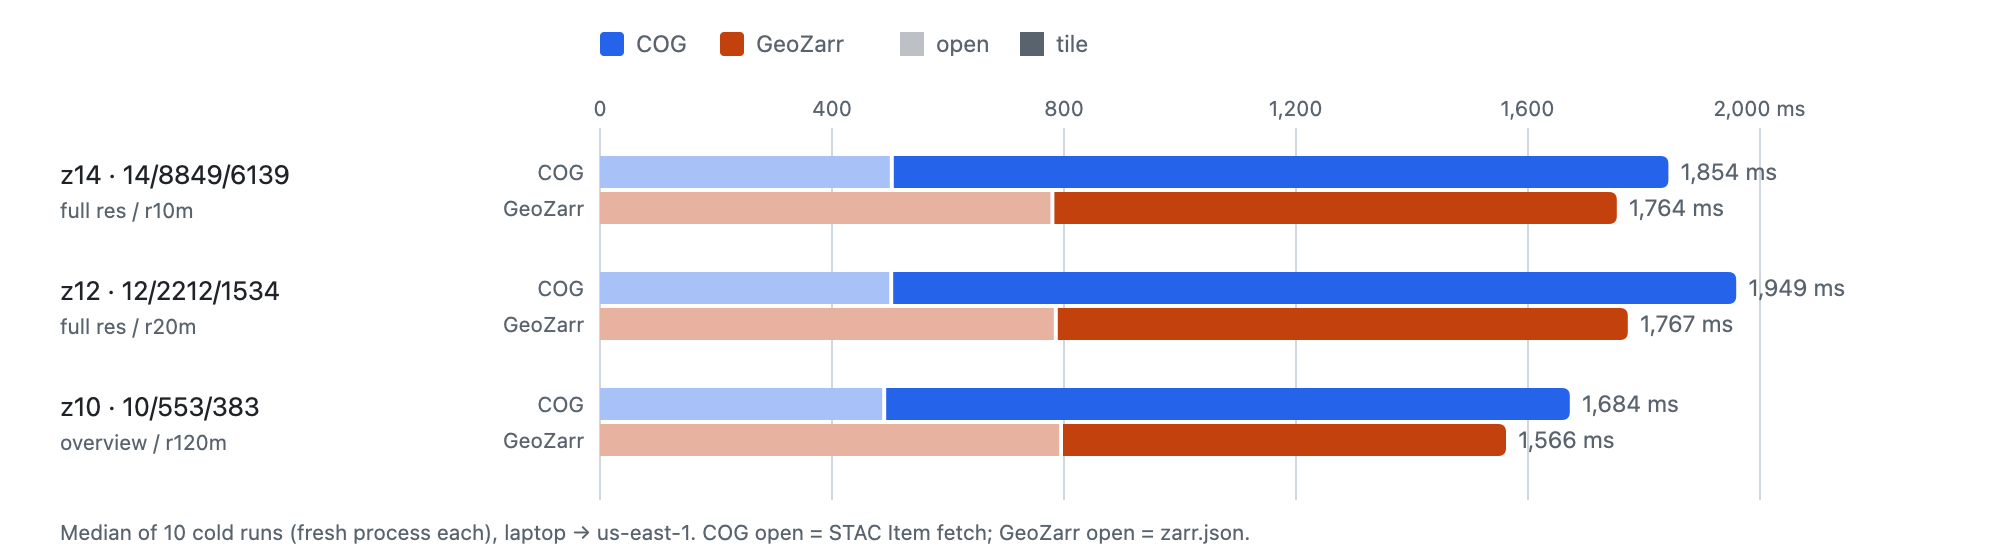
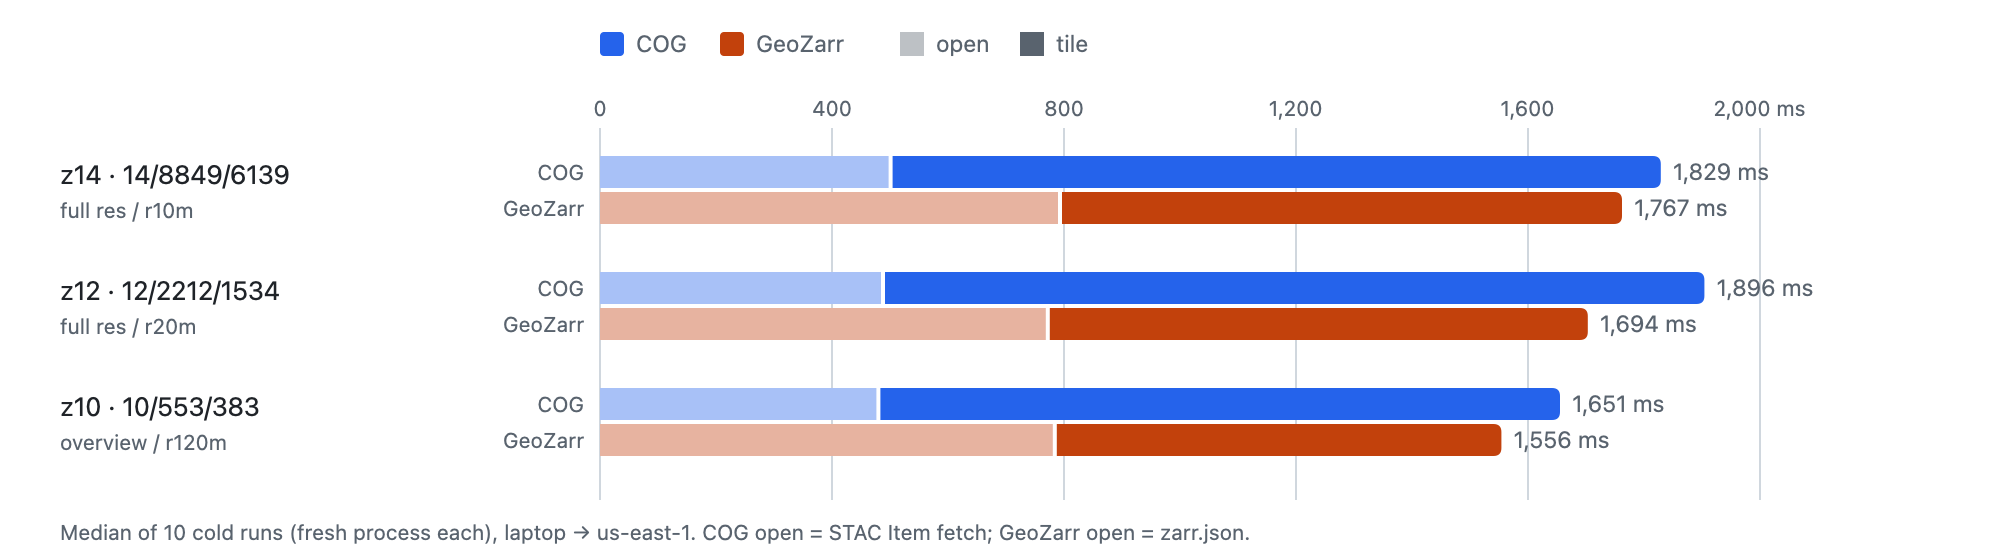
docs: re-run cog-vs-geozarr blog benchmarks with rio_tiler.io readers (#1086)

diff --git a/tests/profiles/geotiff_profiles.py b/tests/profiles/geotiff_profiles.py
@@ -6,36 +6,37 @@ Run with:
 
 === rasterio Reader.tile ===
 store calls: {'open: ': 1, 'tile: ': 1}
-2.332 test_sync_rasterio_reader  tests/profiles/geotiff_profiles.py:90
-├─ 1.742 Reader.__init__  <attrs generated methods rio_tiler.io.rasterio.Reader>:32
-│  └─ 1.742 Reader.__attrs_post_init__  rio_tiler/io/rasterio.py:94
-│     └─ 1.739 wrapper  rasterio/env.py:443
-│           [43 frames hidden]  rasterio, botocore, urllib3, http, so...
-│              0.725 _SSLSocket.read  <built-in>
-│              0.755 open  rasterio/__init__.py:100
-└─ 0.590 Reader.tile  rio_tiler/io/rasterio.py:263
-   └─ 0.584 Reader.part  rio_tiler/io/rasterio.py:314
-      └─ 0.584 part  rio_tiler/reader.py:315
-         └─ 0.577 read  rio_tiler/reader.py:71
+2.541 test_sync_rasterio_reader  tests/profiles/geotiff_profiles.py:119
+├─ 1.810 Reader.__init__  <attrs generated methods rio_tiler.io.rasterio.Reader>:32
+│  └─ 1.810 Reader.__attrs_post_init__  rio_tiler/io/rasterio.py:95
+│     └─ 1.809 wrapper  rasterio/env.py:443
+│           [54 frames hidden]  rasterio, botocore, urllib3, http, so...
+│              0.659 _SSLSocket.read  <built-in>
+│              0.819 open  rasterio/__init__.py:100
+└─ 0.730 Reader.tile  rio_tiler/io/rasterio.py:264
+   └─ 0.716 Reader.part  rio_tiler/io/rasterio.py:322
+      └─ 0.716 part  rio_tiler/reader.py:331
+         └─ 0.714 read  rio_tiler/reader.py:71
 
 === async-geotiff Reader.tile ===
 store calls: {'open: get_range_async': 1, 'tile: get_ranges_async': 1}
-1.120 Handle._run  asyncio/events.py:92
-├─ 0.550 CountingStore.get_range_async  tests/profiles/geotiff_profiles.py:50
-│  └─ 0.550 HTTPStore.get_range_async  obstore/store.py:212
-│     └─ 0.550 [await]  obstore/store.py
-├─ 0.515 CountingStore.get_ranges_async  tests/profiles/geotiff_profiles.py:57
-│  └─ 0.515 HTTPStore.get_ranges_async  obstore/store.py:254
-│     └─ 0.515 [await]  obstore/store.py
-└─ 0.055 test_async_geotiff_reader  tests/profiles/geotiff_profiles.py:113
-   └─ 0.053 Reader.tile  rio_tiler/io/geotiff.py:214
-      └─ 0.051 Reader.part  rio_tiler/io/geotiff.py:258
-         ├─ 0.021 Reader._read  rio_tiler/io/geotiff.py:643
-         │  └─ 0.020 GeoTIFF.read  async_geotiff/_read.py:34
-         │        [3 frames hidden]  async_geotiff
-         └─ 0.020 run_sync  rio_tiler/utils.py:952
-            └─ 0.020 to_thread  asyncio/threads.py:12
-               └─ 0.019 [await]  asyncio/threads.py
+1.260 _UnixSelectorEventLoop._run_once  asyncio/base_events.py:1966
+└─ 1.259 Handle._run  asyncio/events.py:92
+   ├─ 0.631 CountingStore.get_ranges_async  tests/profiles/geotiff_profiles.py:88
+   │  └─ 0.631 HTTPStore.get_ranges_async  obstore/store.py:254
+   │     └─ 0.631 [await]  obstore/store.py
+   ├─ 0.580 CountingStore.get_range_async  tests/profiles/geotiff_profiles.py:83
+   │  └─ 0.580 HTTPStore.get_range_async  obstore/store.py:212
+   │     └─ 0.580 [await]  obstore/store.py
+   └─ 0.048 test_async_geotiff_reader  tests/profiles/geotiff_profiles.py:142
+      └─ 0.043 Reader.tile  rio_tiler/io/geotiff.py:212
+         └─ 0.042 Reader.part  rio_tiler/io/geotiff.py:256
+            ├─ 0.016 Reader._read  rio_tiler/io/geotiff.py:630
+            │  └─ 0.015 GeoTIFF.read  async_geotiff/_read.py:34
+            │        [3 frames hidden]  async_geotiff
+            └─ 0.015 run_sync  rio_tiler/utils.py:966
+               └─ 0.015 to_thread  asyncio/threads.py:12
+                  └─ 0.015 [await]  asyncio/threads.py
 
 """
 

diff --git a/tests/profiles/zarr_array_profiles.py b/tests/profiles/zarr_array_profiles.py
@@ -6,32 +6,36 @@ Run with:
 
 === GroupReader.tile ===
 store calls: {'read_only': 1, '_ensure_open': 1, 'get': 2}
-1.254 test_sync_group_reader  tests/profiles/zarr_array_profiles.py:92
-├─ 0.663 open_group  zarr/api/synchronous.py:496
+1.341 test_sync_group_reader  tests/profiles/zarr_array_profiles.py:122
+├─ 0.833 open_group  zarr/api/synchronous.py:503
 │     [4 frames hidden]  zarr, concurrent, threading
-│        0.663 lock.acquire  <built-in>
-└─ 0.592 GroupReader.tile  rio_tiler/io/zarr.py:3846
-   └─ 0.592 GroupReader.part  rio_tiler/io/zarr.py:3910
-      └─ 0.592 _part  rio_tiler/io/zarr.py:3955
-         └─ 0.578 ArrayReader.part  rio_tiler/io/zarr.py:1432
-            └─ 0.567 ArrayReader._read  rio_tiler/io/zarr.py:1734
-               └─ 0.567 Array.get_orthogonal_selection  zarr/core/array.py:3103
+│        0.833 lock.acquire  <built-in>
+└─ 0.508 GroupReader.tile  rio_tiler/io/zarr.py:3860
+   └─ 0.508 GroupReader.part  rio_tiler/io/zarr.py:3924
+      └─ 0.508 _part  rio_tiler/io/zarr.py:3971
+         └─ 0.492 ArrayReader.part  rio_tiler/io/zarr.py:1440
+            └─ 0.482 ArrayReader._read  rio_tiler/io/zarr.py:1743
+               └─ 0.482 Array.get_orthogonal_selection  zarr/core/array.py:3114
                      [4 frames hidden]  zarr, concurrent, threading
-                        0.567 lock.acquire  <built-in>
+                        0.482 lock.acquire  <built-in>
 
 === AsyncGroupReader.tile ===
 store calls: {'read_only': 1, '_ensure_open': 1, 'get': 2}
-1.266 Handle._run  asyncio/events.py:92
-├─ 0.664 test_async_group_reader  tests/profiles/zarr_array_profiles.py:106
-│  └─ 0.663 open_group  zarr/api/asynchronous.py:814
-│        [13 frames hidden]  zarr, functools
-│           0.613 ObjectStore.get  zarr/storage/_obstore.py:97
-│           └─ 0.613 [await]  zarr/storage/_obstore.py
-├─ 0.444 _fetch_group  zarr/core/_coalesce.py:38
-│  └─ 0.444 ObjectStore.get  zarr/storage/_obstore.py:97
-│     └─ 0.444 [await]  zarr/storage/_obstore.py
-└─ 0.138 run  zarr/core/common.py:133
-      [7 frames hidden]  zarr
+1.183 _UnixSelectorEventLoop._run_once  asyncio/base_events.py:1966
+└─ 1.180 Handle._run  asyncio/events.py:92
+      [9 frames hidden]  zarr
+         0.757 test_async_group_reader  tests/profiles/zarr_array_profiles.py:136
+         └─ 0.755 open_group  zarr/api/asynchronous.py:829
+               [9 frames hidden]  zarr
+                  0.695 ObjectStore.get  zarr/storage/_obstore.py:97
+                  └─ 0.695 [await]  zarr/storage/_obstore.py
+         0.242 ObjectStore.get  zarr/storage/_obstore.py:97
+         └─ 0.242 [await]  zarr/storage/_obstore.py
+         0.022 _part  rio_tiler/io/zarr.py:2972
+         └─ 0.020 AsyncArrayReader.part  rio_tiler/io/zarr.py:870
+            └─ 0.014 run_sync  rio_tiler/utils.py:966
+               └─ 0.014 to_thread  asyncio/threads.py:12
+                  └─ 0.014 [await]  asyncio/threads.py
 
 """
 

diff --git a/docs/scripts/cog_vs_geozarr/make_figures.py b/docs/scripts/cog_vs_geozarr/make_figures.py
@@ -726,10 +726,10 @@ def bytes_chart():
 
 def time_chart():
     data = [
-        ((544, 738, 1281), (769, 533, 1290)),
-        ((572, 874, 1465), (796, 509, 1291)),
-        ((565, 657, 1205), (786, 391, 1175)),
-        ((580, 485, 1066), (791, 498, 1283)),
+        ((571, 743, 1305), (770, 533, 1321)),
+        ((556, 843, 1414), (796, 438, 1214)),
+        ((577, 650, 1217), (776, 388, 1162)),
+        ((563, 456, 1011), (783, 500, 1270)),
     ]
     f = Fig(1000, 350, "Time per tile")
 
@@ -880,9 +880,9 @@ def multiband_bytes_chart():
 
 def multiband_time_chart():
     data = [
-        [(503, 1339, 1854), (780, 973, 1764)],
-        [(502, 1457, 1949), (786, 986, 1767)],
-        [(490, 1182, 1684), (795, 767, 1566)],
+        [(501, 1328, 1829), (793, 969, 1767)],
+        [(488, 1416, 1896), (772, 931, 1694)],
+        [(480, 1175, 1651), (784, 770, 1556)],
     ]
     series = [("COG", "c"), ("GeoZarr", "z")]
     f = Fig(1000, 280, "Time per 3-band tile")

diff --git a/docs/src/blog/posts/cog-vs-geozarr.md b/docs/src/blog/posts/cog-vs-geozarr.md
@@ -1,7 +1,7 @@
 ---
 date:
   created: 2026-11-19
-  updated: 2026-11-23
+  updated: 2026-11-27
 authors:
   - vincentsarago
 categories:
@@ -18,6 +18,17 @@ from the same Sentinel-2 band (B04, red), stored as a COG and as a GeoZarr.
 !!! note
 
     This post, along with its benchmark scripts and figures, was written with the help of [Claude Code](https://claude.com/claude-code) (Anthropic).
+
+!!! info "Updated on 2026-11-27: measured again with rio-tiler's new readers"
+
+    The readers left `rio_tiler.experimental`: they are now `rio_tiler.io.geotiff.Reader`,
+    `rio_tiler.io.zarr.AsyncGroupReader` and `rio_tiler.io.stac.AsyncSTACReader`. They also
+    pick the overview (or multiscale level) with GDAL's rule, and warp the pixels onto the
+    tile in a single pass.
+
+    All the scripts were run again. Requests and bytes are **exactly the same** for every tile
+    (same levels, same byte ranges). Only the timings were measured again (new 10-run medians).
+    The conclusions don't change.
 
 !!! info "Updated on 2026-11-23: GeoZarr stored as `uint16`"
 
@@ -174,23 +185,23 @@ internet to `us-east-1`.
 
 | Tile | COG open | COG tile | **COG total** | Zarr open | Zarr tile | **Zarr total** |
 |---|---|---|---|---|---|---|
-| z14 | 544 ms | 738 ms | **1281 ms** | 769 ms | 533 ms | **1290 ms** |
-| z12 | 572 ms | 874 ms | **1465 ms** | 796 ms | 509 ms | **1291 ms** |
-| z10 | 565 ms | 657 ms | **1205 ms** | 786 ms | 391 ms | **1175 ms** |
-| z9  | 580 ms | 485 ms | **1066 ms** | 791 ms | 498 ms | **1283 ms** |
+| z14 | 571 ms | 743 ms | **1305 ms** | 770 ms | 533 ms | **1321 ms** |
+| z12 | 556 ms | 843 ms | **1414 ms** | 796 ms | 438 ms | **1214 ms** |
+| z10 | 577 ms | 650 ms | **1217 ms** | 776 ms | 388 ms | **1162 ms** |
+| z9  | 563 ms | 456 ms | **1011 ms** | 783 ms | 500 ms | **1270 ms** |
 
 ![Time per tile](img/cog_vs_geozarr/time_per_tile.svg#only-light)
 ![Time per tile](img/cog_vs_geozarr/time_per_tile_dark.svg#only-dark)
 
 - **Open** is dominated by the first request (DNS + TLS + cold connection). It costs
-  ~560 ms for the COG (32 KB header) and ~790 ms for Zarr (215 KB `zarr.json`).
-- **Totals are close**: within 3% at z14 and z10. Zarr is 12% faster at z12 (half the bytes),
-  the COG 17% faster at z9 (half the bytes, the other way around).
+  ~570 ms for the COG (32 KB header) and ~780 ms for Zarr (215 KB `zarr.json`).
+- **Totals are close** at z14 (within 1%) and z10 (Zarr 5% faster). Zarr is 14% faster at
+  z12 (half the bytes), the COG 20% faster at z9 (half the bytes, the other way around).
 
 **Why is Zarr's tile step faster with *more* round trips?**
 
 Zarr's tile step (2 dependent GETs: shard index, then chunks) takes 390–530 ms, the COG's
-(1 GET for the blocks) 490–870 ms. From a laptop, bandwidth is part of the cost:
+(1 GET for the blocks) 460–840 ms. From a laptop, bandwidth is part of the cost:
 
 - Zarr downloads about half the bytes from z14 to z10, which pays for its extra round trip.
 - A bigger first read also warms the TCP connection: in an earlier run of this benchmark,
@@ -267,16 +278,16 @@ read per band, then one data read per band.
 
 | Tile | COG open | COG tile | **COG total** | Zarr open | Zarr tile | **Zarr total** |
 |---|---|---|---|---|---|---|
-| z14 | 503 ms | 1339 ms | **1854 ms** | 780 ms | 973 ms | **1764 ms** |
-| z12 | 502 ms | 1457 ms | **1949 ms** | 786 ms | 986 ms | **1767 ms** |
-| z10 | 490 ms | 1182 ms | **1684 ms** | 795 ms | 767 ms | **1566 ms** |
+| z14 | 501 ms | 1328 ms | **1829 ms** | 793 ms | 969 ms | **1767 ms** |
+| z12 | 488 ms | 1416 ms | **1896 ms** | 772 ms | 931 ms | **1694 ms** |
+| z10 | 480 ms | 1175 ms | **1651 ms** | 784 ms | 770 ms | **1556 ms** |
 
 ![Time per 3-band tile](img/cog_vs_geozarr/multiband_time.svg#only-light)
 ![Time per 3-band tile](img/cog_vs_geozarr/multiband_time_dark.svg#only-dark)
 
-- **GeoZarr is 5–9% faster** (1.57–1.77 s vs 1.68–1.95 s), with the same number of round trips.
-- COG **opens** faster (2.7 KB STAC Item vs 215 KB `zarr.json`, ~500 vs ~790 ms), but
-  its **tile** step is ~370–470 ms slower: it downloads more than twice the bytes, and with
+- **GeoZarr is 3–11% faster** (1.56–1.77 s vs 1.65–1.90 s), with the same number of round trips.
+- COG **opens** faster (2.7 KB STAC Item vs 215 KB `zarr.json`, ~490 vs ~780 ms), but
+  its **tile** step is ~360–490 ms slower: it downloads more than twice the bytes, and with
   one store per file each band's first request opens a new HTTPS connection, while the
   three GeoZarr index reads reuse the one store's connections.
 
@@ -301,7 +312,7 @@ read per band, then one data read per band.
   chunks still downloads chunks the tile doesn't need. At low zoom, a level picked finer
   than the COG's overview can cost more (z9).
 - **Metadata**: consolidated `zarr.json` pays off when reading several bands
-  or levels from the same store — and costs extra (~230 ms here) for a single-band tile.
+  or levels from the same store — and costs extra (~210 ms here) for a single-band tile.
 - **Several bands**: the round trips don't grow with the number of bands (bands are read
   concurrently): 3 for both, with the STAC Item playing the role of `zarr.json`. COG pays
   one header and one new connection per file; GeoZarr reads `zarr.json` once, reuses the
@@ -341,4 +352,4 @@ class TracingZarrStore(zarr.storage.WrapperStore):
         return zarr.abc.store.Store.get_ranges(self, key, byte_ranges, prototype=prototype, **kw)
 ```
 
-Versions: zarr-python 3.4.2, cast-value-rs 0.5.1, measured 2026-11-23.
+Versions: zarr-python 3.4.2, cast-value-rs 0.5.1, async-geotiff 0.5.1, obstore 0.12.1, measured 2026-11-27.
